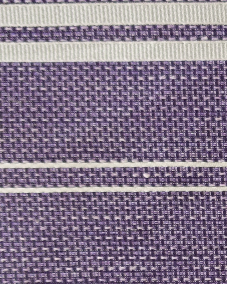
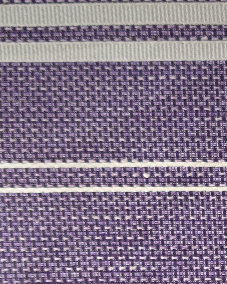
シミュレーターの裂地の影と継ぎ目をならす
スマホで撮った裂地の影が、敷くと区切りごとの市松模様に見えていた。全25種に影をならす処理をかけ、
無地と不規則な柄の9種は継ぎ目もならした(縞や規則的な柄は柄が二重になるので影だけ)。
ピンク ボーダーは縞の傾きを直して左右だけならした。
裏方パネルで取り込む裂地にも同じ処理をかける(js/fabricfix.js)。

diff --git a/public/simulator/js/catalog.js b/public/simulator/js/catalog.js
@@ -71,24 +71,24 @@ const OPTION_SURCHARGES = {
 const FABRIC_CATALOG = [
   { id: "cust_1781494508524", file: "assets/fabrics/custom_1781494616187.png", name: "青　ボーダー", tileW: 68, tileH: 175, uses: ["tenchi","nakamawashi"], grade: "standard" },
   { id: "cust_1781494772255", file: "assets/fabrics/custom_1781494792265.png", name: "紫　ボーダー", tileW: 70, tileH: 88, uses: ["tenchi","nakamawashi"], grade: "standard" },
-  { id: "cust_1781494846305", file: "assets/fabrics/custom_1781494869203.png", name: "茶色　細四角柄", tileW: 92, tileH: 115, uses: ["tenchi","nakamawashi"], grade: "standard" },
+  { id: "cust_1781494846305", file: "assets/fabrics/custom_1781494869203.png", name: "茶色　細四角柄", tileW: 81, tileH: 101, uses: ["tenchi","nakamawashi"], grade: "standard" },
   { id: "cust_1781494911709", file: "assets/fabrics/custom_1781494967338.png", name: "銀色　ドット柄", tileW: 49, tileH: 68, uses: ["tenchi","nakamawashi"], grade: "standard" },
   { id: "cust_1781495019054", file: "assets/fabrics/custom_1781495067604.png", name: "赤　菱紋", tileW: 144, tileH: 118, uses: ["nakamawashi"], grade: "standard" },
   { id: "cust_1781495258736", file: "assets/fabrics/custom_1781495297185.png", name: "グレー白　市松模様", tileW: 68, tileH: 79, uses: ["nakamawashi"], grade: "standard" },
-  { id: "cust_1781495352220", file: "assets/fabrics/custom_1781495497969.png", name: "ピンク　ボーダー", tileW: 60, tileH: 39, uses: ["tenchi","nakamawashi"], grade: "standard" },
+  { id: "cust_1781495352220", file: "assets/fabrics/custom_1781495497969.png", name: "ピンク　ボーダー", tileW: 51, tileH: 36, uses: ["tenchi","nakamawashi"], grade: "standard" },
   { id: "cust_1781495536333", file: "assets/fabrics/custom_1781495561528.png", name: "ドット　黒白", tileW: 60, tileH: 50, uses: ["tenchi","nakamawashi"], grade: "standard" },
-  { id: "cust_1781495621567", file: "assets/fabrics/custom_1781495621567.png", name: "オレンジ　無地", tileW: 60, tileH: 41, uses: ["tenchi","nakamawashi"], grade: "standard" },
-  { id: "cust_1781495665382", file: "assets/fabrics/custom_1781495665382.png", name: "黄緑　無地", tileW: 60, tileH: 39, uses: ["tenchi","nakamawashi"], grade: "standard" },
-  { id: "cust_1781495721799", file: "assets/fabrics/custom_1781495721799.png", name: "ベージュ　無地", tileW: 60, tileH: 28, uses: ["tenchi","nakamawashi"], grade: "standard" },
+  { id: "cust_1781495621567", file: "assets/fabrics/custom_1781495621567.png", name: "オレンジ　無地", tileW: 53, tileH: 36, uses: ["tenchi","nakamawashi"], grade: "standard" },
+  { id: "cust_1781495665382", file: "assets/fabrics/custom_1781495665382.png", name: "黄緑　無地", tileW: 53, tileH: 34, uses: ["tenchi","nakamawashi"], grade: "standard" },
+  { id: "cust_1781495721799", file: "assets/fabrics/custom_1781495721799.png", name: "ベージュ　無地", tileW: 53, tileH: 25, uses: ["tenchi","nakamawashi"], grade: "standard" },
   { id: "cust_1781495775833", file: "assets/fabrics/custom_1781495798367.png", name: "緑　唐草牡丹", tileW: 60, tileH: 51, uses: ["nakamawashi"], grade: "joh" },
-  { id: "cust_1781495869599", file: "assets/fabrics/custom_1781495886584.png", name: "紺色　小花紋緞子", tileW: 53, tileH: 76, uses: ["tenchi","nakamawashi"], grade: "joh" },
+  { id: "cust_1781495869599", file: "assets/fabrics/custom_1781495886584.png", name: "紺色　小花紋緞子", tileW: 47, tileH: 67, uses: ["tenchi","nakamawashi"], grade: "joh" },
   { id: "cust_1781495949883", file: "assets/fabrics/custom_1781495949883.png", name: "金色　鶴紋金襴", tileW: 60, tileH: 56, uses: ["nakamawashi","ichimonji"], grade: "joh" },
   { id: "cust_1782515049911", file: "assets/fabrics/custom_1782515093774.png", name: "菱紋（茶紺系）", tileW: 52, tileH: 81, uses: ["tenchi","nakamawashi"], grade: "standard" },
-  { id: "cust_1782515169873", file: "assets/fabrics/custom_1782515169873.png", name: "紅色　着物帯", tileW: 125, tileH: 117, uses: ["tenchi","nakamawashi"], grade: "standard" },
-  { id: "cust_1782515268163", file: "assets/fabrics/custom_1782515268163.png", name: "橙色　波模様", tileW: 60, tileH: 59, uses: ["tenchi","nakamawashi"], grade: "standard" },
-  { id: "cust_1782515304920", file: "assets/fabrics/custom_1782515304920.png", name: "紺色　縞模様", tileW: 60, tileH: 53, uses: ["tenchi","nakamawashi"], grade: "standard" },
+  { id: "cust_1782515169873", file: "assets/fabrics/custom_1782515169873.png", name: "紅色　着物帯", tileW: 110, tileH: 103, uses: ["tenchi","nakamawashi"], grade: "standard" },
+  { id: "cust_1782515268163", file: "assets/fabrics/custom_1782515268163.png", name: "橙色　波模様", tileW: 53, tileH: 52, uses: ["tenchi","nakamawashi"], grade: "standard" },
+  { id: "cust_1782515304920", file: "assets/fabrics/custom_1782515304920.png", name: "紺色　縞模様", tileW: 53, tileH: 47, uses: ["tenchi","nakamawashi"], grade: "standard" },
   { id: "cust_1782515339747", file: "assets/fabrics/custom_1782515339747.png", name: "茶系縦縞模様", tileW: 60, tileH: 55, uses: ["tenchi","nakamawashi"], grade: "standard" },
-  { id: "cust_1782515387782", file: "assets/fabrics/custom_1782515387782.png", name: "白地裂　鶴模様", tileW: 272, tileH: 201, uses: ["tenchi","nakamawashi"], grade: "standard" },
+  { id: "cust_1782515387782", file: "assets/fabrics/custom_1782515387782.png", name: "白地裂　鶴模様", tileW: 239, tileH: 177, uses: ["tenchi","nakamawashi"], grade: "standard" },
   { id: "cust_1782515424424", file: "assets/fabrics/custom_1782515424424.png", name: "紫地　菱紋", tileW: 195, tileH: 186, uses: ["tenchi","nakamawashi"], grade: "standard" },
   { id: "cust_1782515470218", file: "assets/fabrics/custom_1782515516482.png", name: "青地　花びら紋", tileW: 97, tileH: 95, uses: ["tenchi","nakamawashi"], grade: "standard" },
   { id: "cust_1782515562151", file: "assets/fabrics/custom_1782515562151.png", name: "茶系　縦縞模様", tileW: 60, tileH: 63, uses: ["tenchi","nakamawashi"], grade: "standard" },

diff --git a/public/simulator/js/fabricfix.js b/public/simulator/js/fabricfix.js
@@ -1,0 +1,106 @@
+// fabricfix.js — 裏方で裂地を取り込むときの下ごしらえ(2026-11-19)。
+// スマホで撮った裂地は片側が暗くなりやすく、敷き詰めると区切りごとに明暗が並んで市松模様に見える。
+//   影をならす  : 明るさのゆるやかな変化だけを推定して割り戻す(色みは保つ)。
+//   継ぎ目をならす: 端の帯を反対側の端となじませ、敷いたときの継ぎ目を消す。画像は縦横とも約 12% 小さくなる。
+//                  無地・不規則な柄向け。縞や規則的な柄では柄が二重になるので使わない。
+// 既存の裂地は同じ考え方の Python で一括処理済み(原本は assets/fabrics_original/、公開しない)。
+
+(function (root) {
+  "use strict";
+
+  const BAND = 0.12;
+
+  function loadImage(src) {
+    return new Promise((resolve, reject) => {
+      const img = new Image();
+      img.onload = () => resolve(img);
+      img.onerror = reject;
+      img.src = src;
+    });
+  }
+
+  // 明るさのゆるやかな変化 = 画像をごく小さく縮めてから元の大きさへ戻したもの(強いぼかしの代わり)
+  function lowLuminance(img, w, h) {
+    const k = 6 / Math.max(w, h);
+    const sw = Math.max(2, Math.round(w * k)), sh = Math.max(2, Math.round(h * k));
+    const small = document.createElement("canvas");
+    small.width = sw; small.height = sh;
+    const sg = small.getContext("2d");
+    sg.imageSmoothingQuality = "high";
+    sg.drawImage(img, 0, 0, sw, sh);
+    const big = document.createElement("canvas");
+    big.width = w; big.height = h;
+    const bg = big.getContext("2d");
+    bg.imageSmoothingQuality = "high";
+    bg.drawImage(small, 0, 0, w, h);
+    const d = bg.getImageData(0, 0, w, h).data;
+    const lum = new Float32Array(w * h);
+    for (let i = 0; i < lum.length; i++) lum[i] = (d[i * 4] + d[i * 4 + 1] + d[i * 4 + 2]) / 3;
+    return lum;
+  }
+
+  function flatten(px, lum) {
+    let mean = 0;
+    for (let i = 0; i < lum.length; i++) mean += lum[i];
+    mean /= lum.length;
+    for (let i = 0; i < lum.length; i++) {
+      const k = mean / Math.max(1, lum[i]);
+      for (let c = 0; c < 3; c++) px[i * 4 + c] = Math.min(255, px[i * 4 + c] * k);
+    }
+  }
+
+  // 横方向: 先頭 b 列を「右端の b 列 → 左端の b 列」へ徐々に移し、右端の b 列を捨てる。
+  // 新しい左端は元の右端の手前とつながるので、敷くと継ぎ目が出ない。
+  function blendX(px, w, h) {
+    const b = Math.max(4, Math.floor(w * BAND)), nw = w - b;
+    const out = new Uint8ClampedArray(nw * h * 4);
+    for (let y = 0; y < h; y++) {
+      for (let x = 0; x < nw; x++) {
+        const o = (y * nw + x) * 4;
+        if (x < b) {
+          const t = b > 1 ? x / (b - 1) : 1;
+          const a = (y * w + (w - b + x)) * 4, s = (y * w + x) * 4;
+          for (let c = 0; c < 4; c++) out[o + c] = px[a + c] * (1 - t) + px[s + c] * t;
+        } else {
+          const s = (y * w + x) * 4;
+          for (let c = 0; c < 4; c++) out[o + c] = px[s + c];
+        }
+      }
+    }
+    return { px: out, w: nw, h: h };
+  }
+  function transpose(px, w, h) {
+    const out = new Uint8ClampedArray(px.length);
+    for (let y = 0; y < h; y++) for (let x = 0; x < w; x++) {
+      const s = (y * w + x) * 4, o = (x * h + y) * 4;
+      for (let c = 0; c < 4; c++) out[o + c] = px[s + c];
+    }
+    return out;
+  }
+
+  // dataUrl → Promise<dataUrl(PNG)>。opts = { shade: true, seam: false }
+  function process(src, opts) {
+    opts = opts || {};
+    return loadImage(src).then((img) => {
+      const w = img.naturalWidth, h = img.naturalHeight;
+      const c = document.createElement("canvas");
+      c.width = w; c.height = h;
+      const g = c.getContext("2d");
+      g.drawImage(img, 0, 0);
+      const data = g.getImageData(0, 0, w, h);
+      let px = data.data, W = w, H = h;
+      if (opts.shade !== false) flatten(px, lowLuminance(img, w, h));
+      if (opts.seam) {
+        let r = blendX(px, W, H); px = r.px; W = r.w;
+        r = blendX(transpose(px, W, H), H, W); // 縦方向は転置して同じ処理
+        px = transpose(r.px, r.w, r.h); H = r.w;
+      }
+      const out = document.createElement("canvas");
+      out.width = W; out.height = H;
+      out.getContext("2d").putImageData(new ImageData(new Uint8ClampedArray(px), W, H), 0, 0);
+      return out.toDataURL("image/png");
+    });
+  }
+
+  root.KakeFabricFix = { process };
+})(window);

diff --git a/public/simulator/js/app.js b/public/simulator/js/app.js
@@ -1369,6 +1369,7 @@
 
   // ---- 裏方: 裂地の追加/削除(#admin のときだけ表示。サーバー経由で catalog.js を更新)----
   let adminPendingImage = null; // トリミング済みの取り込み画像(dataURL)。編集で未変更なら null。
+  let adminRawImage = null; // 下ごしらえ前の切り抜き(影・継ぎ目のチェックを変えたら、ここから作り直す)
   let adminEditingId = null;    // 編集中の裂地 id(null = 追加モード)
 
   function isAdmin() { return (location.hash || "").indexOf("admin") >= 0; }
@@ -1399,6 +1400,10 @@
     if (cancelBtn) cancelBtn.addEventListener("click", resetAdminForm);
     const recropBtn = document.getElementById("admin-fabric-recrop");
     if (recropBtn) recropBtn.addEventListener("click", onAdminRecrop);
+    ["admin-fix-shade", "admin-fix-seam"].forEach((id) => {
+      const cb = document.getElementById(id);
+      if (cb) cb.addEventListener("change", applyAdminFabricFix);
+    });
     const mapBtn = document.getElementById("fabric-map-refresh");
     if (mapBtn) mapBtn.addEventListener("click", renderFabricMap);
   }
@@ -1425,7 +1430,8 @@
   // 保存済み画像は同一オリジン配信なので canvas で切り出し可能(狭める調整向け。元より広げるのは不可)。
   function onAdminRecrop() {
     const img = document.getElementById("admin-fabric-preview");
-    const src = img && img.getAttribute("src");
+    // 下ごしらえ前の切り抜きがあればそちらを切り直す(二重にならさないため)
+    const src = adminRawImage || (img && img.getAttribute("src"));
     if (!src) return adminWarn("先に画像を選んでください。");
     openFabricTrim(src);
   }
@@ -1443,14 +1449,31 @@
         needCropped: true,
         onConfirm: function (cropRect, croppedDataUrl) {
           downscaleImage(croppedDataUrl, 400, function (small) {
-            adminPendingImage = small;
-            showAdminPreview(small);
+            adminRawImage = small;
+            applyAdminFabricFix();
           });
         },
       });
     };
     img.onerror = () => adminWarn("画像の読み込みに失敗しました。");
     img.src = srcUrl;
+  }
+
+  // 影・継ぎ目の下ごしらえ(js/fabricfix.js)をかけて取り込み画像にする
+  function applyAdminFabricFix() {
+    if (!adminRawImage) return;
+    const raw = adminRawImage;
+    const opts = {
+      shade: document.getElementById("admin-fix-shade").checked,
+      seam: document.getElementById("admin-fix-seam").checked,
+    };
+    const done = (url) => {
+      if (adminRawImage !== raw) return; // 途中で別の画像に変わった
+      adminPendingImage = url;
+      showAdminPreview(url);
+    };
+    if (typeof KakeFabricFix === "undefined" || (!opts.shade && !opts.seam)) return done(raw);
+    KakeFabricFix.process(raw, opts).then(done, () => done(raw));
   }
 
   function showAdminPreview(dataUrl) {
@@ -1516,6 +1539,7 @@
   function onAdminEditFabric(fab) {
     adminEditingId = fab.id;
     adminPendingImage = null;
+    adminRawImage = null;
     document.getElementById("admin-fabric-name").value = fab.name || "";
     document.getElementById("admin-use-tenchi").checked = (fab.uses || []).indexOf("tenchi") >= 0;
     document.getElementById("admin-use-nakamawashi").checked = (fab.uses || []).indexOf("nakamawashi") >= 0;
@@ -1541,6 +1565,7 @@
   function resetAdminForm() {
     adminEditingId = null;
     adminPendingImage = null;
+    adminRawImage = null;
     document.getElementById("admin-fabric-file").value = "";
     document.getElementById("admin-fabric-name").value = "";
     document.getElementById("admin-use-tenchi").checked = false;

diff --git a/public/simulator/index.html b/public/simulator/index.html
@@ -263,6 +263,10 @@
       <label>画像(裂地のスワッチ)<input type="file" id="admin-fabric-file" accept="image/*" /></label>
       <p class="admin-hint">画像を選ぶとトリミング画面が開きます。柄が継ぎ目なく繰り返す範囲を切り抜くと綺麗です。</p>
       <div id="admin-fabric-preview-wrap" class="admin-preview" hidden>切り抜き: <img id="admin-fabric-preview" alt="取り込みプレビュー" /> <button type="button" id="admin-fabric-recrop" class="secondary">切り抜きを調整</button></div>
+      <div class="admin-uses">下ごしらえ:
+        <label><input type="checkbox" id="admin-fix-shade" checked /> 影をならす</label>
+        <label><input type="checkbox" id="admin-fix-seam" /> 継ぎ目をならす(無地・不規則な柄向け。縞や規則的な柄は外す)</label>
+      </div>
       <label>名前<input type="text" id="admin-fabric-name" placeholder="例: 裂地 菊唐草(臙脂)" /></label>
       <div class="admin-uses">用途(1つ以上):
         <label><input type="checkbox" id="admin-use-tenchi" /> 天地</label>
@@ -509,6 +513,7 @@
   <script src="js/suggest.js"></script>
   <script src="js/design.js"></script>
   <script src="js/fabricmap.js"></script>
+  <script src="js/fabricfix.js"></script>
   <script src="js/app.js"></script>
 </body>
 </html>
